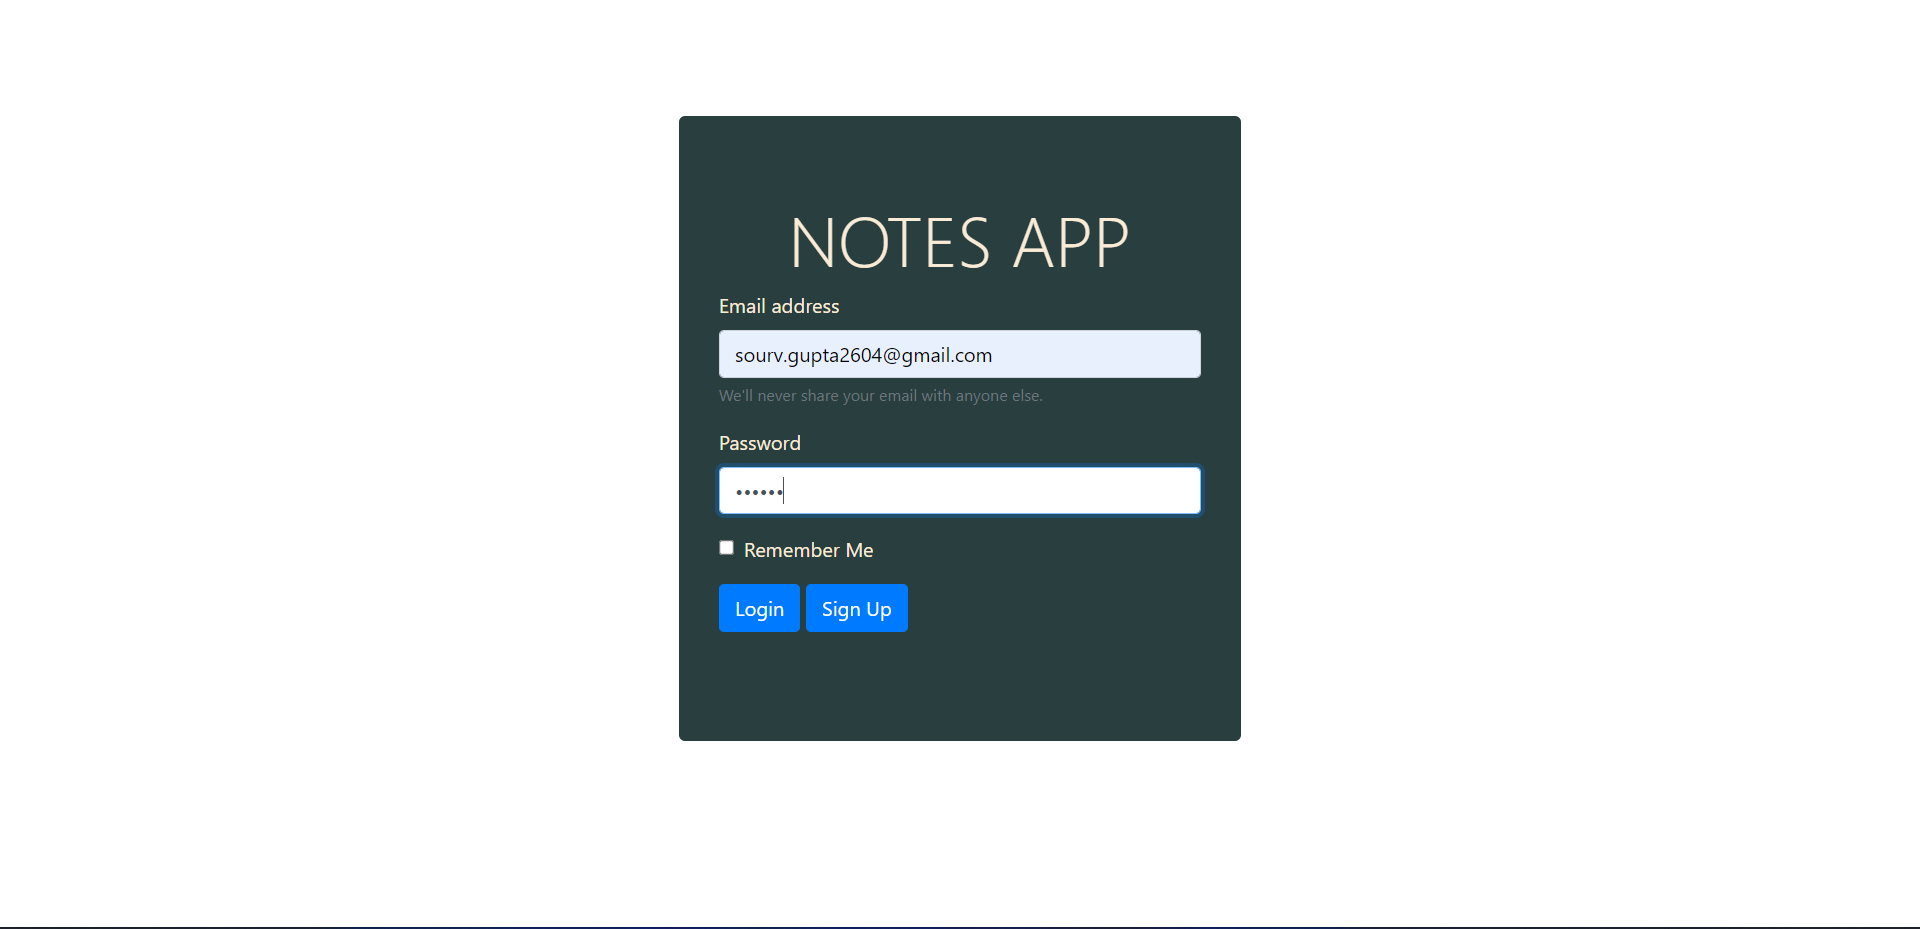
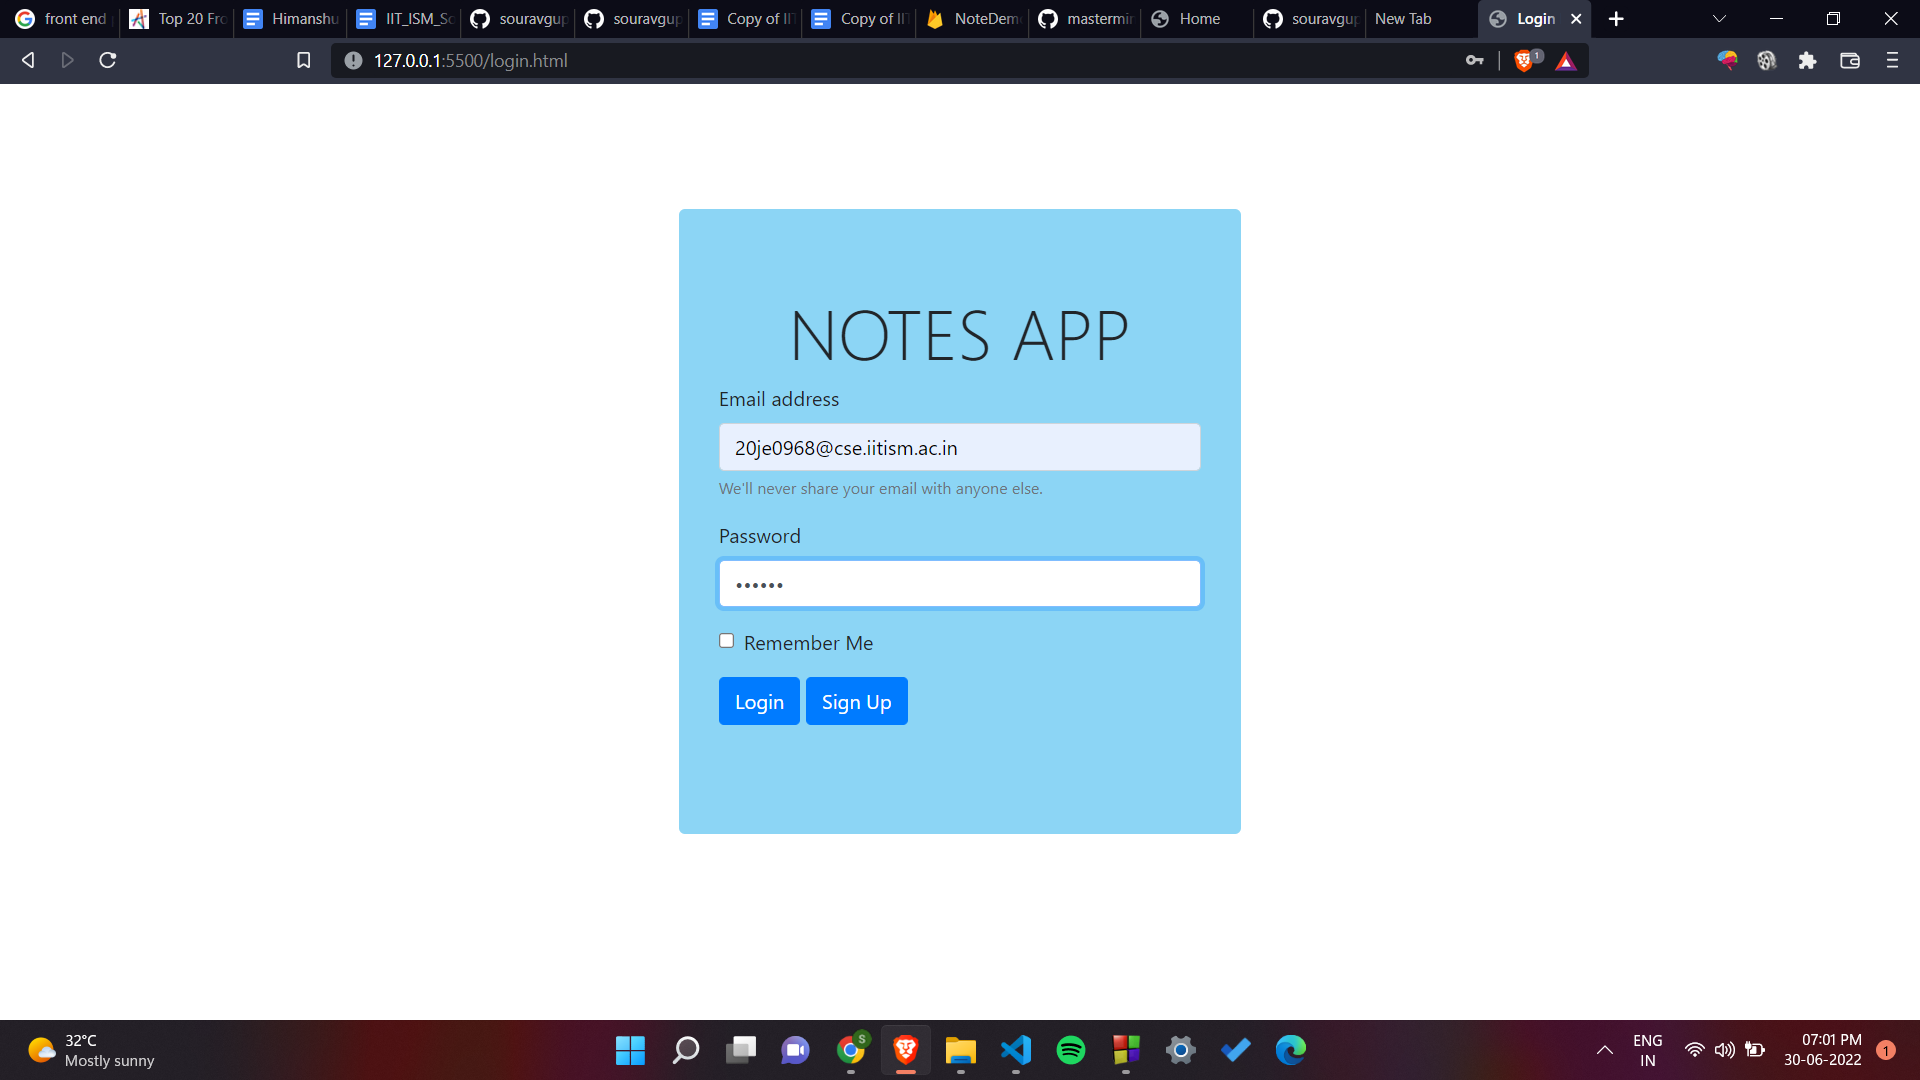
Add files via upload

diff --git a/about.js b/about.js
@@ -1,24 +1,14 @@
-// Import the functions you need from the SDKs you need
-import { initializeApp } from "https://www.gstatic.com/firebasejs/9.8.4/firebase-app.js";
-import { getAnalytics } from "https://www.gstatic.com/firebasejs/9.8.4/firebase-analytics.js";
-// TODO: Add SDKs for Firebase products that you want to use
-// https://firebase.google.com/docs/web/setup#available-libraries
-
-// Your web app's Firebase configuration
-// For Firebase JS SDK v7.20.0 and later, measurementId is optional
-const firebaseConfig = {
-  apiKey: "AIzaSyCZk5-WD7yaFBQmJG1BIEMo7BpQj4Jtwgo",
-  authDomain: "notes-app-48859.firebaseapp.com",
-  projectId: "notes-app-48859",
-  storageBucket: "notes-app-48859.appspot.com",
-  messagingSenderId: "127518958572",
-  appId: "1:127518958572:web:0ae6a90b804e78e82256c9",
-  measurementId: "G-F5F2KB08DQ"
+var firebaseConfig = {
+    apiKey: "AIzaSyBFkmspKoi-RDOMZfL-k9__70YIaS7vLn0",
+    authDomain: "notedemo-a1e15.firebaseapp.com",
+    projectId: "notedemo-a1e15",
+    storageBucket: "notedemo-a1e15.appspot.com",
+    messagingSenderId: "641128485554",
+    appId: "1:641128485554:web:db3794ada96d08b1ea2fab"
 };
-
 // Initialize Firebase
-const app = initializeApp(firebaseConfig);
-const analytics = getAnalytics(app);
+firebase.initializeApp(firebaseConfig);
+firebase.analytics();
 const dbRef = firebase.database()
 const auth = firebase.auth();
 

diff --git a/about.html b/about.html
@@ -73,9 +73,7 @@
         Gupta,who is currently a Student at Indian Institute of Technology
         (Indian School of Mines) Dhanbad.
       </p>
-      <p>
-        <a href="...">Suggest Changes: Github Repository</a>
-      </p>
+      <p><a href="...">Suggest Changes: Github Repository</a></p>
     </div>
 
     <div class="container">
@@ -145,10 +143,10 @@
       integrity="sha384-JjSmVgyd0p3pXB1rRibZUAYoIIy6OrQ6VrjIEaFf/nJGzIxFDsf4x0xIM+B07jRM"
       crossorigin="anonymous"
     ></script>
-    <script src="https://www.gstatic.com/firebasejs/9.8.4/firebase-app.js"></script>
-    <script src="https://www.gstatic.com/firebasejs/9.8.4/firebase-analytics.js"></script>
-    <script src="https://www.gstatic.com/firebasejs/9.8.4/firebase-auth.js"></script>
-    <script src="https://www.gstatic.com/firebasejs/9.8.4/firebase-database.js"></script>
+    <script src="https://www.gstatic.com/firebasejs/8.2.5/firebase-app.js"></script>
+    <script src="https://www.gstatic.com/firebasejs/8.2.5/firebase-analytics.js"></script>
+    <script src="https://www.gstatic.com/firebasejs/8.2.5/firebase-auth.js"></script>
+    <script src="https://www.gstatic.com/firebasejs/8.2.5/firebase-database.js"></script>
     <script src="about.js"></script>
   </body>
 </html>

diff --git a/thenotesapp.css b/thenotesapp.css
@@ -1,5 +1,5 @@
 .mainbody{
-	background-image: url(https://www.washingtonpost.com/resizer/NcD-eYjEnEEcTDnS1GZelQtAK5c=/1484x0/arc-anglerfish-washpost-prod-washpost.s3.amazonaws.com/public/YBDXXTEX7JFCJP4JGBPBCIVLDU.jpg);
+	background-image: url(felipe-furtado-2zDXqgTzEFE-unsplash.jpg);
 	vertical-align: center;
 	align-content: center;
 	background-size: cover;
@@ -16,14 +16,14 @@
 	background-color: #D3D3D3;
 }
 .container my-3{
-	background-color: grey;
+	background-color: rgb(20, 18, 18);
 }
 #Heading{
 	text-align: center;
 }
 #jumbo
 {
-	background-color:  rgb(255, 204, 255);
+	background-color:  rgb(140, 213, 245);
 	padding: auto;
 	align-content: center;
 	vertical-align: center;
@@ -35,7 +35,7 @@
 
 #special
 {
-	background-color:  rgb(255, 204, 255);
+	background-color:  rgb(140, 213, 245);
 	padding: auto;
 	align-content: center;
 	vertical-align: center;

diff --git a/about.css b/about.css
@@ -34,7 +34,7 @@ html {
 .about-section {
   padding: 50px;
   text-align: center;
-  background-color: #000000;
+  background-color: #474e5d;
   color: white;
 }
 
